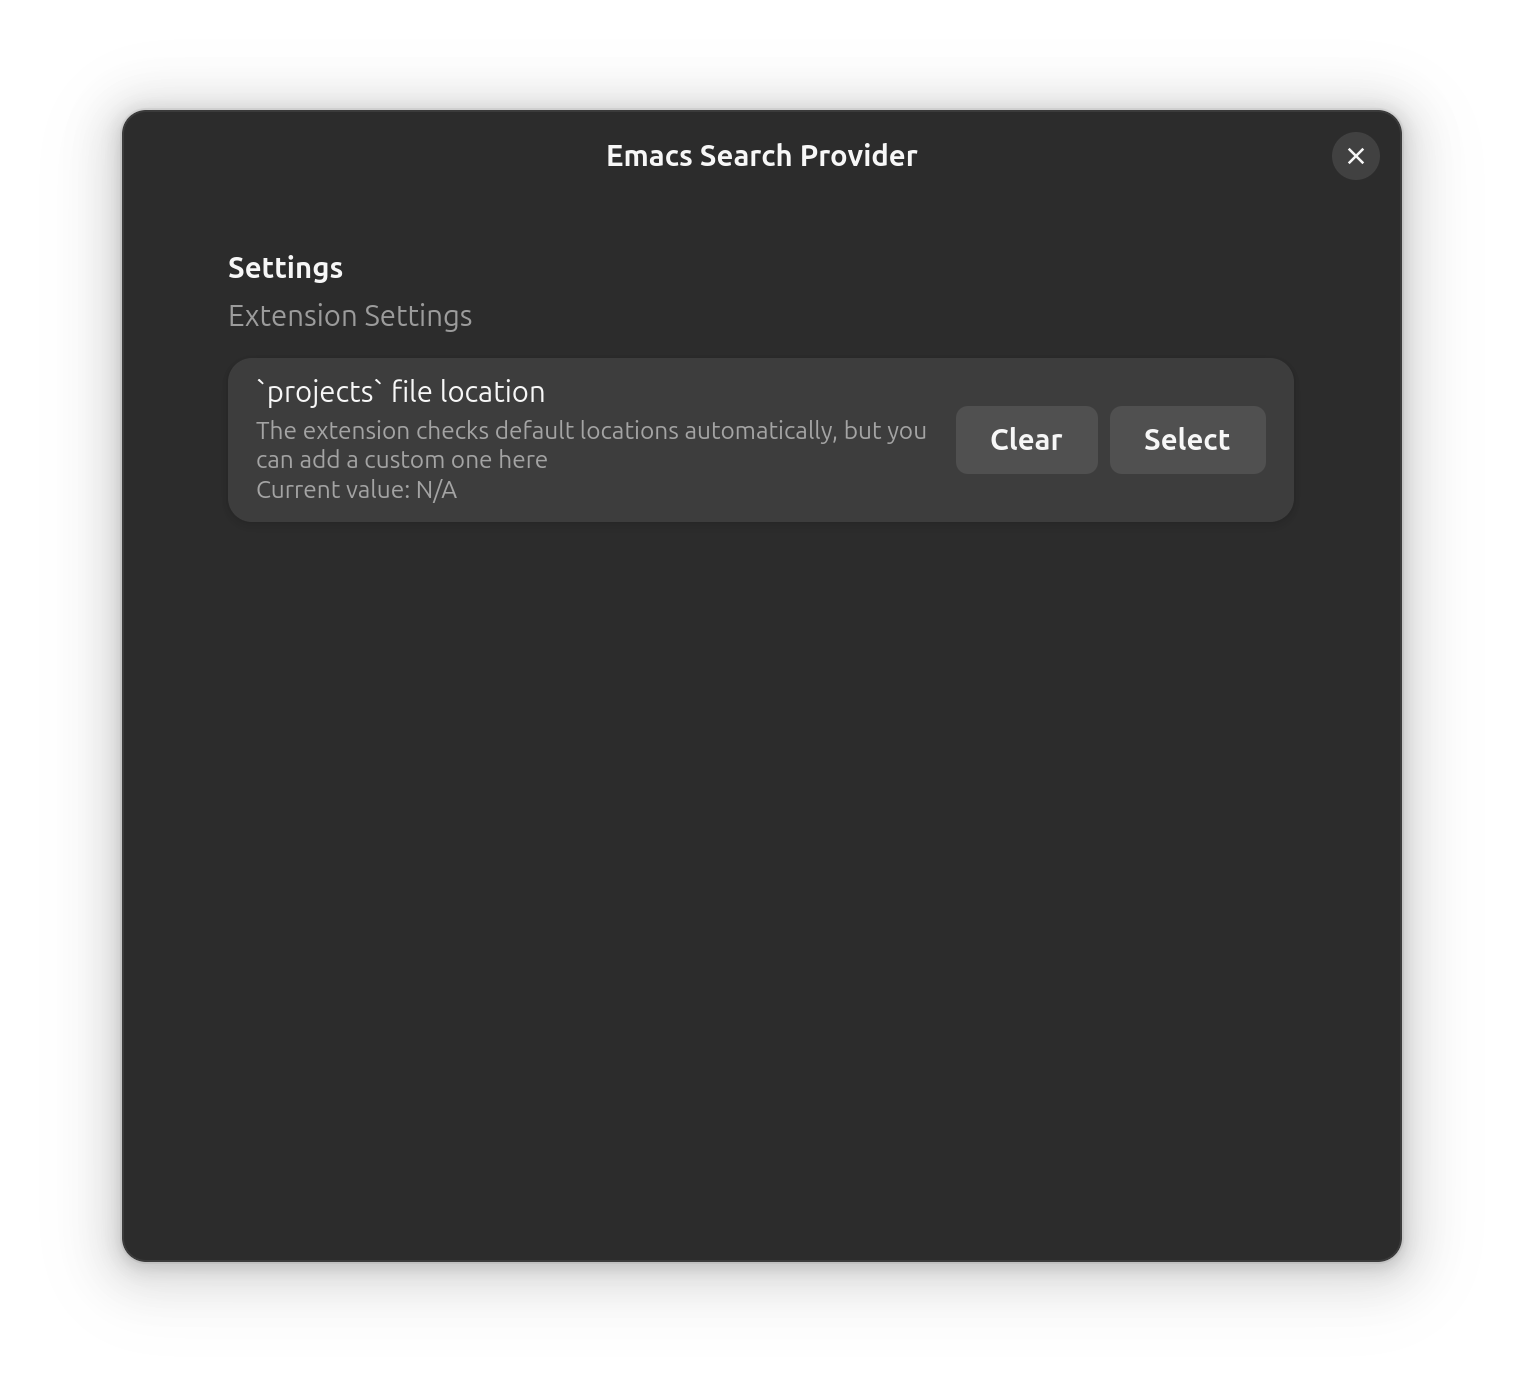
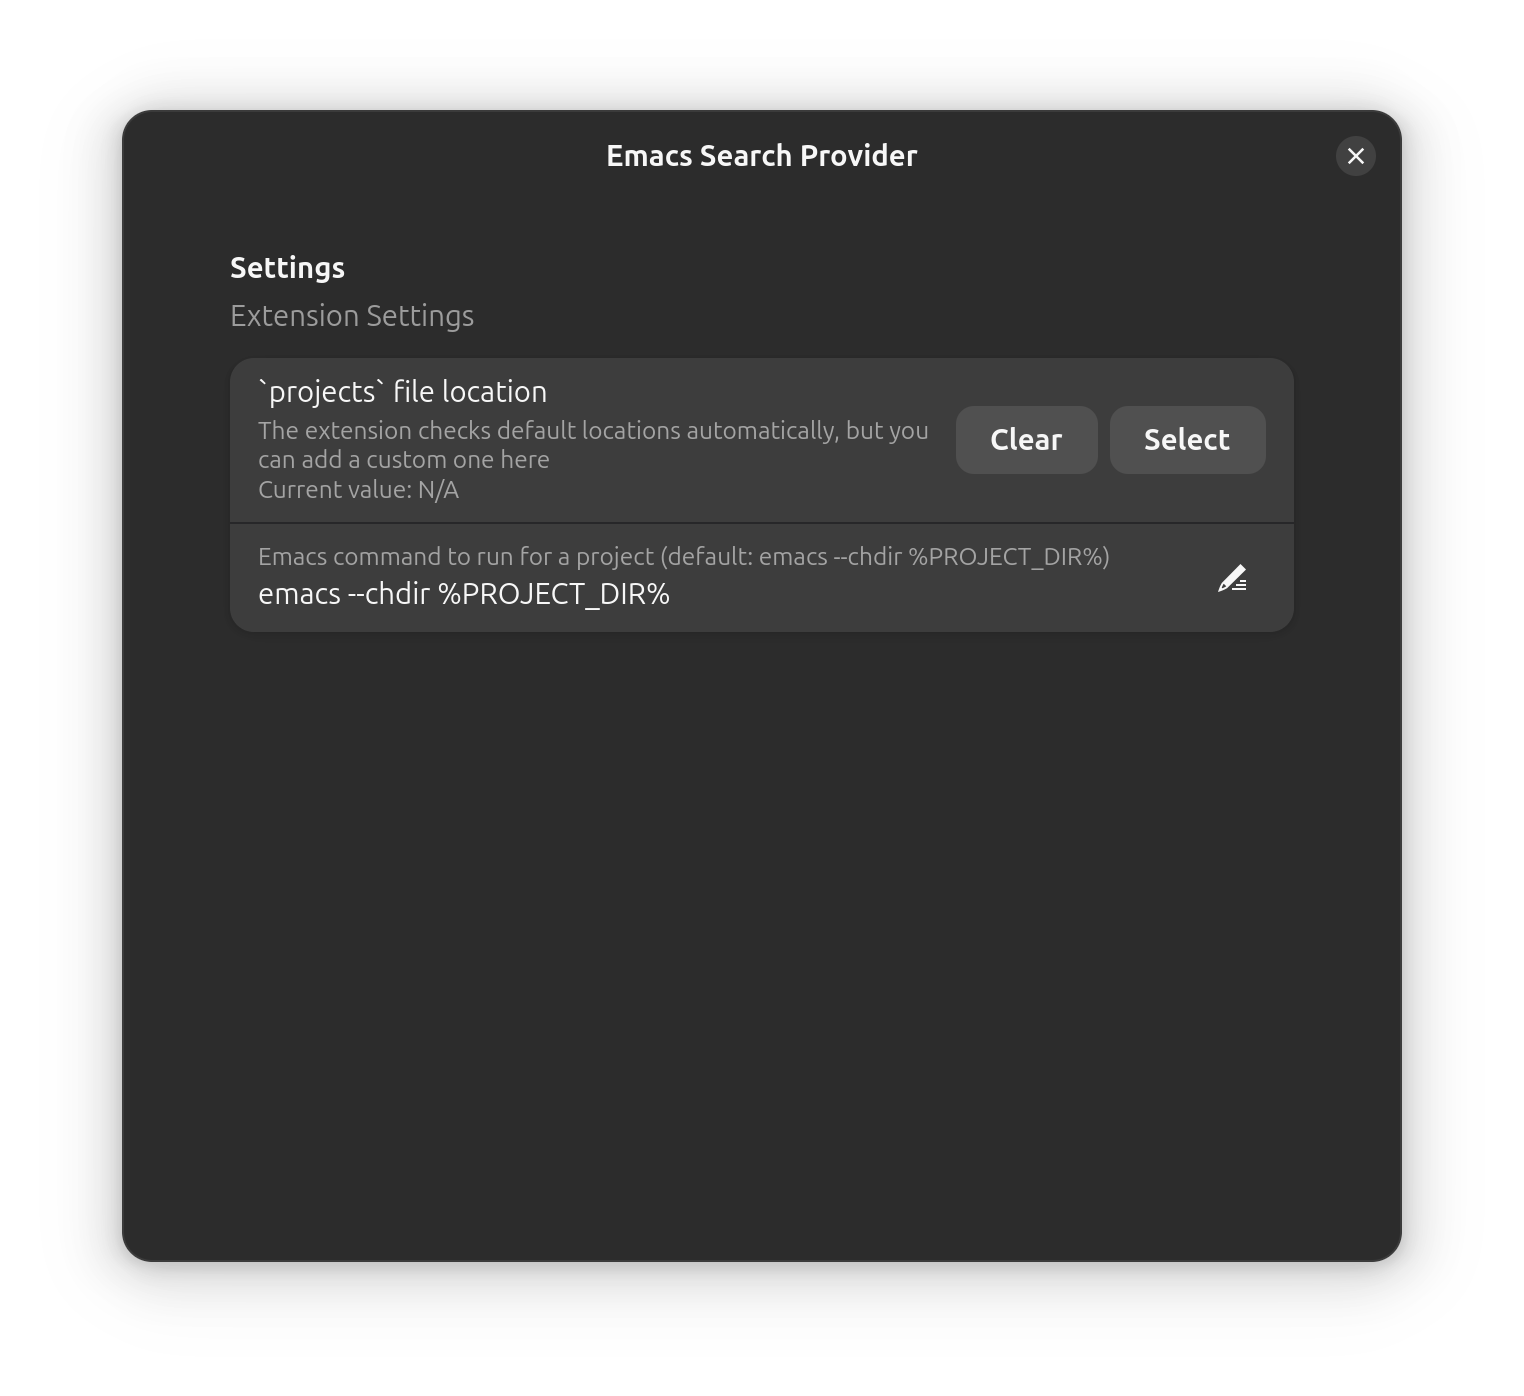
Update README about Emacs command setting

diff --git a/README.md b/README.md
@@ -43,7 +43,7 @@ With the introduction of `project.el` in Emacs, a standard approach to project m
 
 ![Settings Screenshot](settings-screenshot.png)
 
-To start Emacs, this extension executes `emacs --chdir <projectPath>`. It is assumed that Emacs is configured to restore project-specific settings from the current directory. Flexibility is a hallmark of Emacs, and one configuration could involve using the built-in `desktop.el`. Here is an example configuration:
+To start Emacs, this extension executes `emacs --chdir %PROJECT_DIR%` by default, but you can change the command via settings. It is assumed that Emacs is configured to restore project-specific settings from the current directory. Flexibility is a hallmark of Emacs, and one configuration could involve using the built-in `desktop.el`. Here is an example configuration:
 
 ```emacs-lisp
 (use-package emacs
